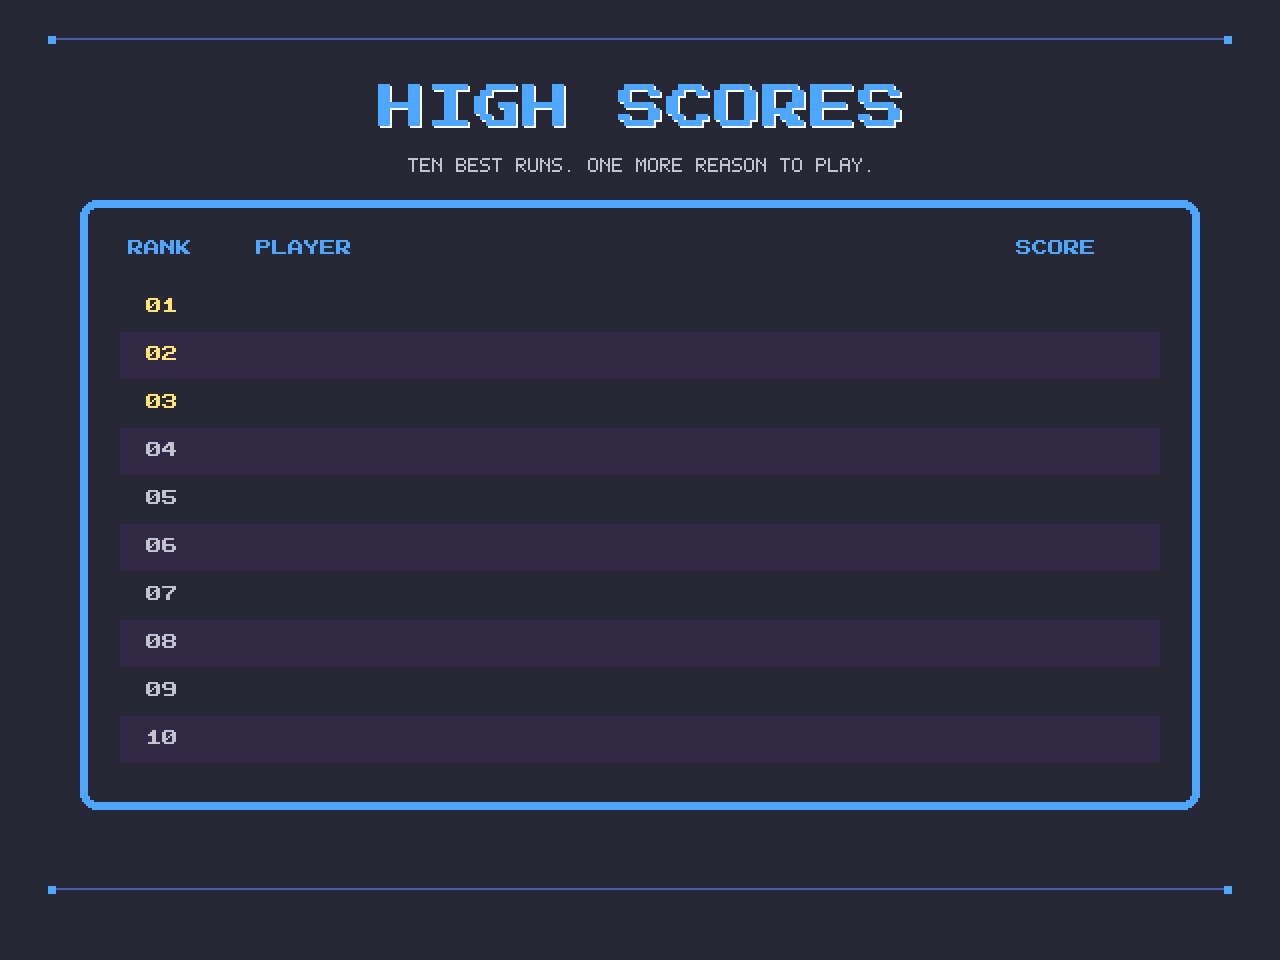
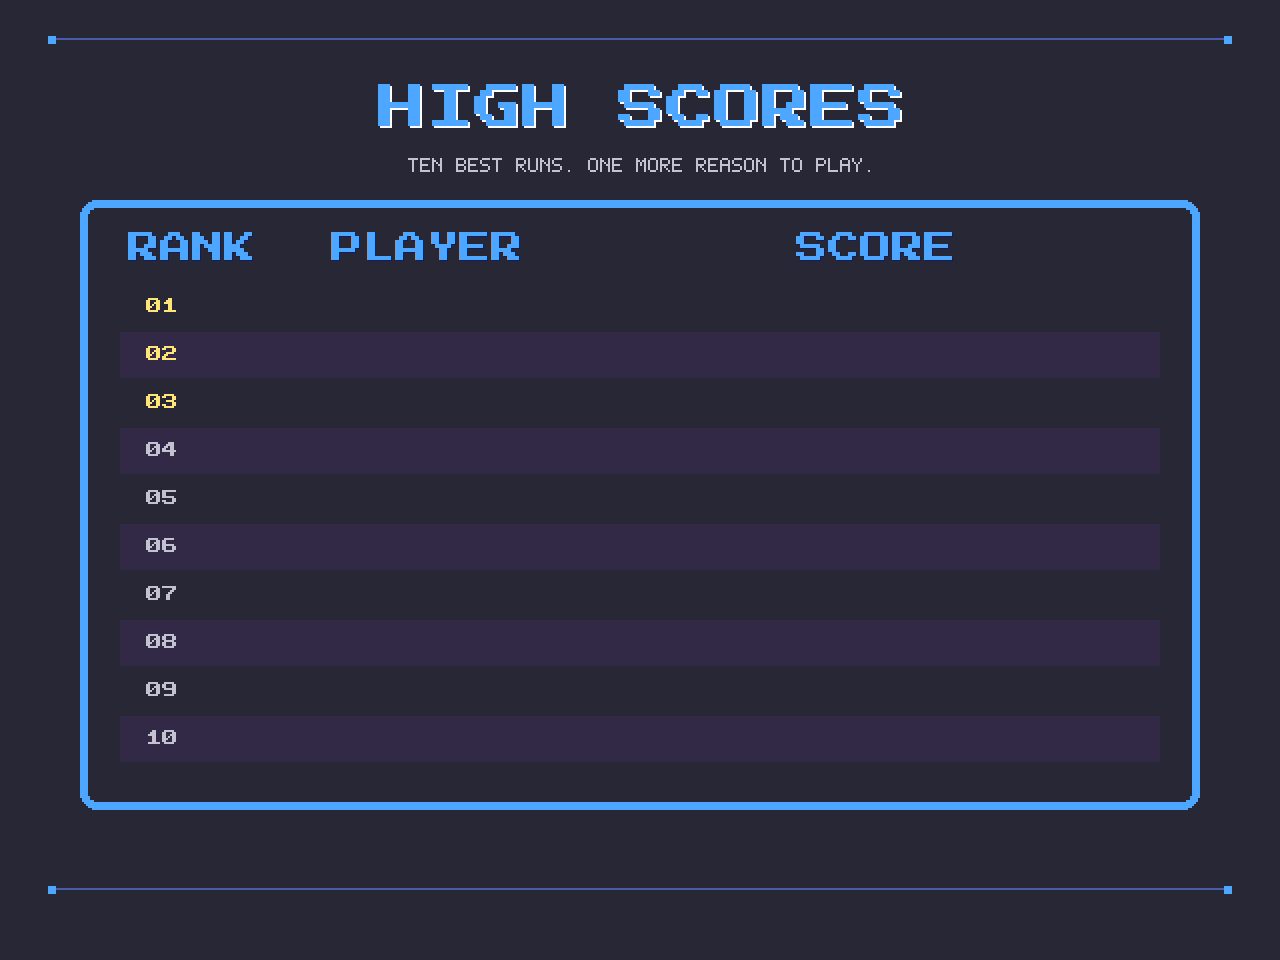
feat(game/score): Implement score saving and top ten highscores screen.

Changed region(s): [[0.0938, 0.2188, 0.4062, 0.2812], [0.625, 0.2188, 0.75, 0.2812], [0.7812, 0.25, 0.8438, 0.2812]]

diff --git a/src/ui/render.py b/src/ui/render.py
@@ -267,7 +267,7 @@ class Renderer:
         for button in self._pause_buttons.values():
             button.draw(self._screen)
 
-    def _draw_high_scores(self) -> None:
+    def _draw_high_scores(self, state: GameState) -> None:
         high_scores = pygame.image.load(
             "assets/images/screens/high_scores.png"
         )
@@ -276,12 +276,35 @@ class Renderer:
             self.width // 2 - high_scores_rect.width // 2,
             self.height // 2 - high_scores_rect.height // 2,
         )
-
-        scores: list[Score] = IO().load()
         self._screen.blit(high_scores, position)
 
-        for score in scores:
-            pass
+        name_offset_x, name_offset_y = 330, 292
+        name_x, name_y = (
+            position[0] + name_offset_x,
+            position[1] + name_offset_y,
+        )
+        score_offset_x, score_offset_y = 800, 292
+        score_x, score_y = (
+            position[0] + score_offset_x,
+            position[1] + score_offset_y,
+        )
+        for score in state.scores[:10]:
+            name_x = position[0] + name_offset_x
+            for char in score.name:
+                if char == " ":
+                    name_x += 32
+                else:
+                    imgae = self.text_box.letters[char.upper()]
+                    self._screen.blit(imgae, (name_x, name_y))
+                    name_x += 32
+            name_y += 48
+
+            score_x = position[0] + score_offset_x
+            for char in str(score.score):
+                imgae = self.text_box.letters[char]
+                self._screen.blit(imgae, (score_x, score_y))
+                score_x += 32
+            score_y += 48
 
     def _draw_instructions(self) -> None:
         instructions = pygame.image.load(

diff --git a/src/ui/button.py b/src/ui/button.py
@@ -3,6 +3,7 @@
 import pygame
 from pygame.surface import Surface
 
+from src.game.score import IO
 from src.game.state import GameState, Screen
 
 
@@ -51,6 +52,7 @@ class Button:
                 state.screen = Screen.PLAYING
             case "high_scores":
                 state.screen = Screen.HIGH_SCORES
+                state.scores = IO().load()
             case "instructions":
                 state.screen = Screen.INSTRUCTIONS
             case "resume":

diff --git a/src/game/state.py b/src/game/state.py
@@ -46,6 +46,7 @@ class GameState:
         self.time_remaining = maze.config.level_max_time
         self.super_pacgum_timer = 0.0
         self.check_colission = True
+        self.scores = []
 
     def respawn_all_ghosts(self):
         for ghost in self.ghosts:

diff --git a/src/game/score.py b/src/game/score.py
@@ -41,4 +41,4 @@ class IO:
         except FileNotFoundError as e:
             print(f"ERROR: {e}")
 
-        return scores
+        return sorted(scores, key=lambda score: score.score, reverse=True)
